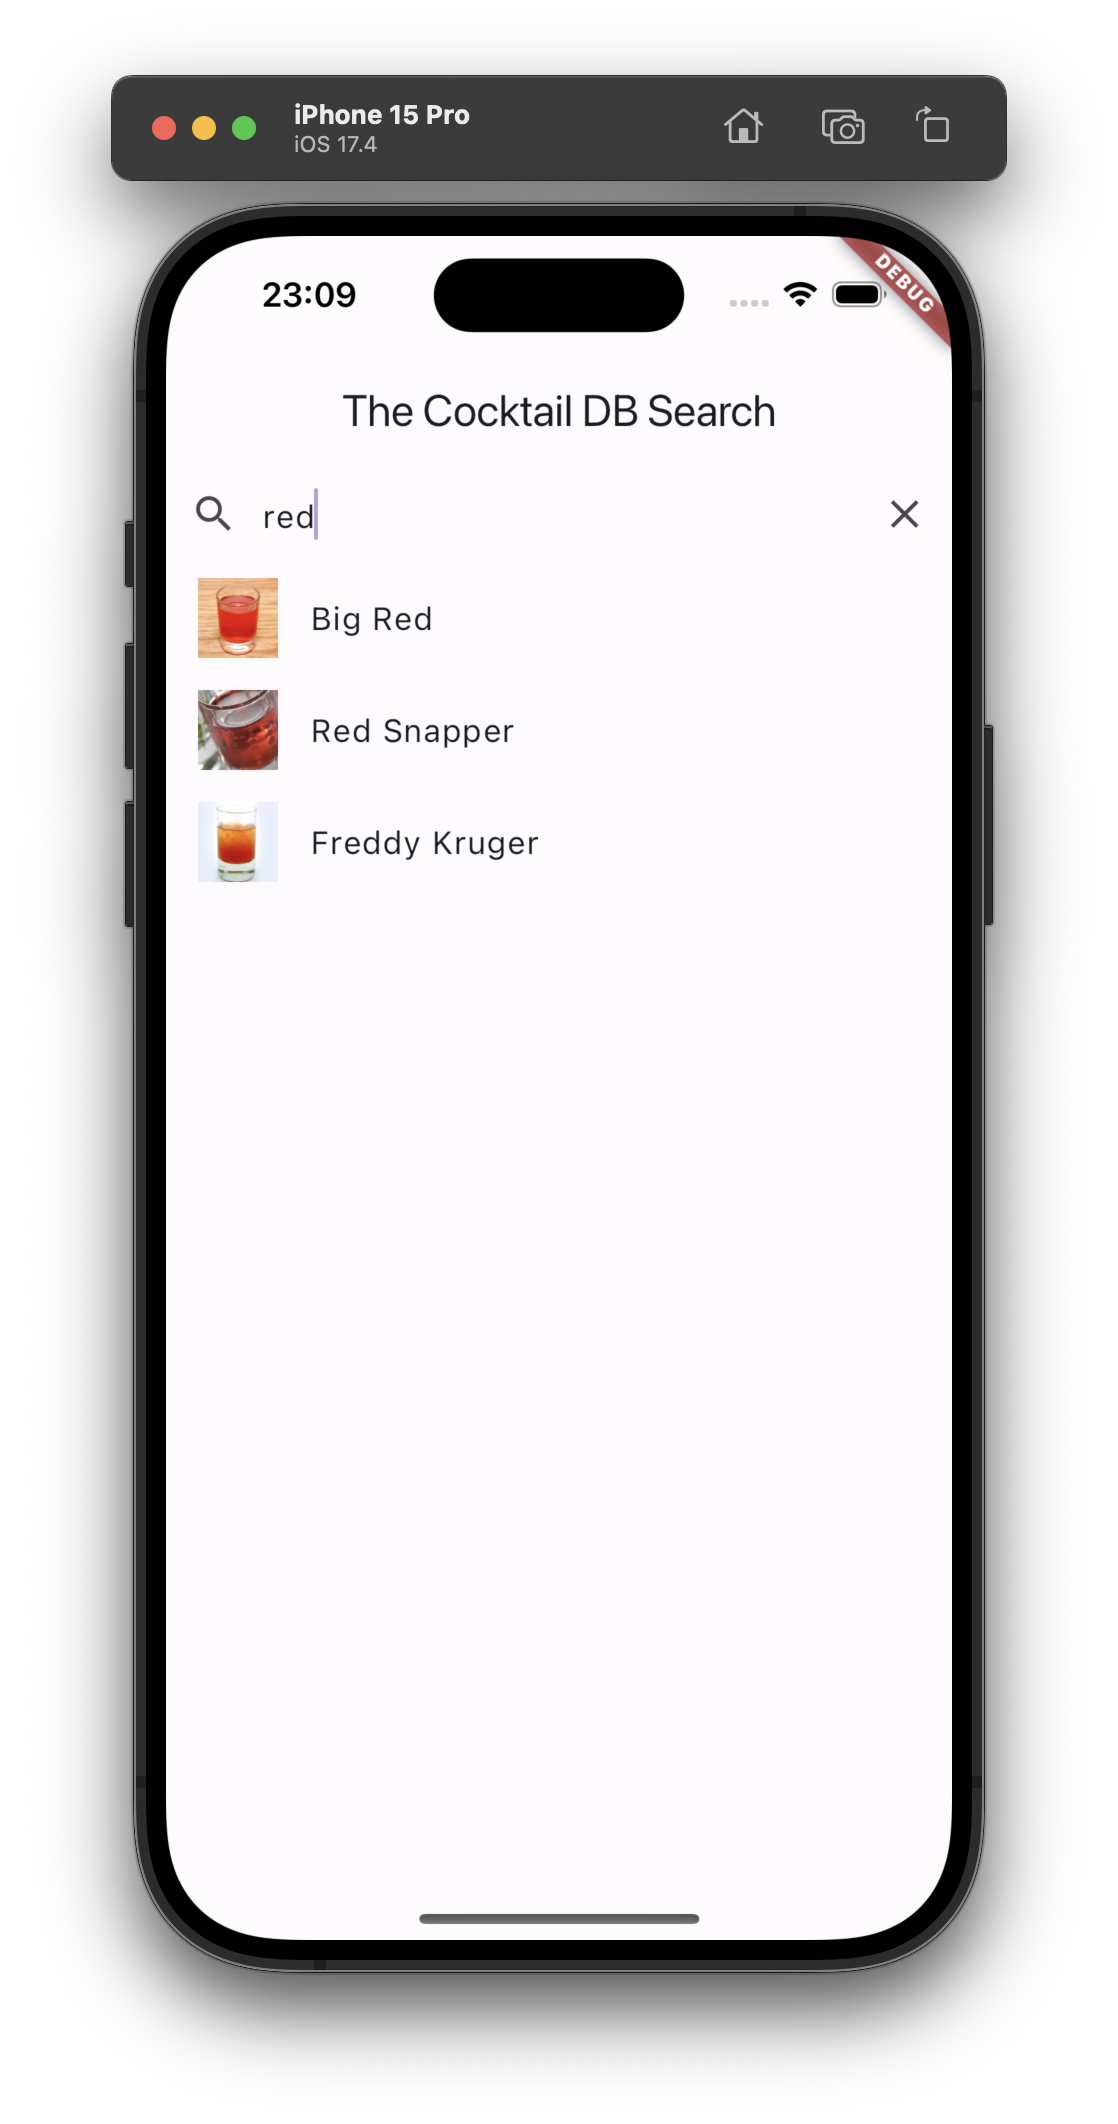
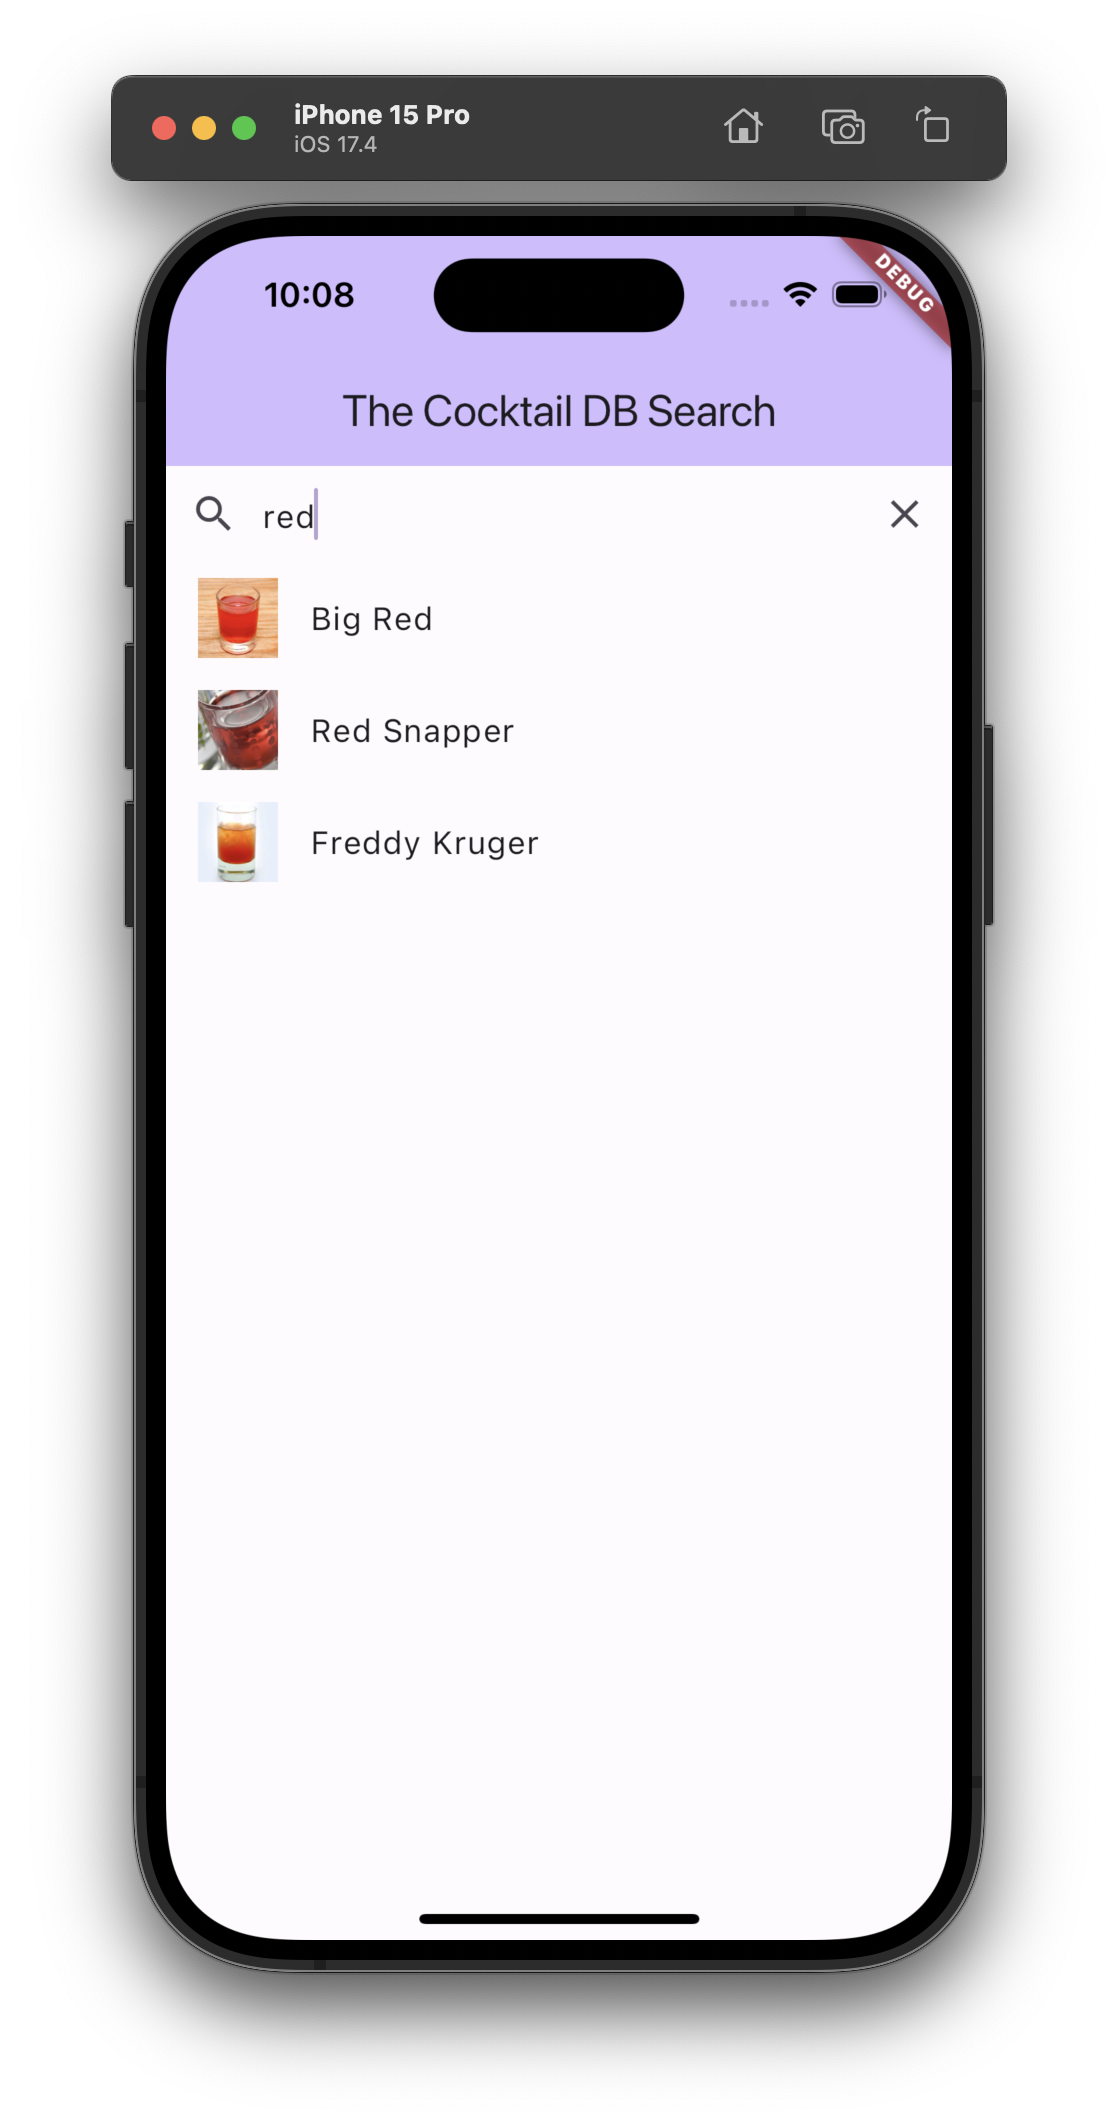
AppBar Color

Changed region(s): [[0.1216, 0.0932, 0.8515, 0.2175], [0.3953, 0.9011, 0.6082, 0.9322]]

diff --git a/flutter_cocktail_search_example/lib/main.dart b/flutter_cocktail_search_example/lib/main.dart
@@ -25,7 +25,8 @@ class App extends StatelessWidget {
     return MaterialApp(
       title: 'Github Search',
       home: Scaffold(
-        appBar: AppBar(title: const Text('The Cocktail DB Search')),
+        appBar: AppBar(title: const Text('The Cocktail DB Search'),
+                        backgroundColor: Theme.of(context).colorScheme.inversePrimary),
         body: BlocProvider(
           create: (_) => ThecocktaildbSearchBloc(thecocktaildbRepository: thecocktaildbRepository),
           child: const SearchForm(),
